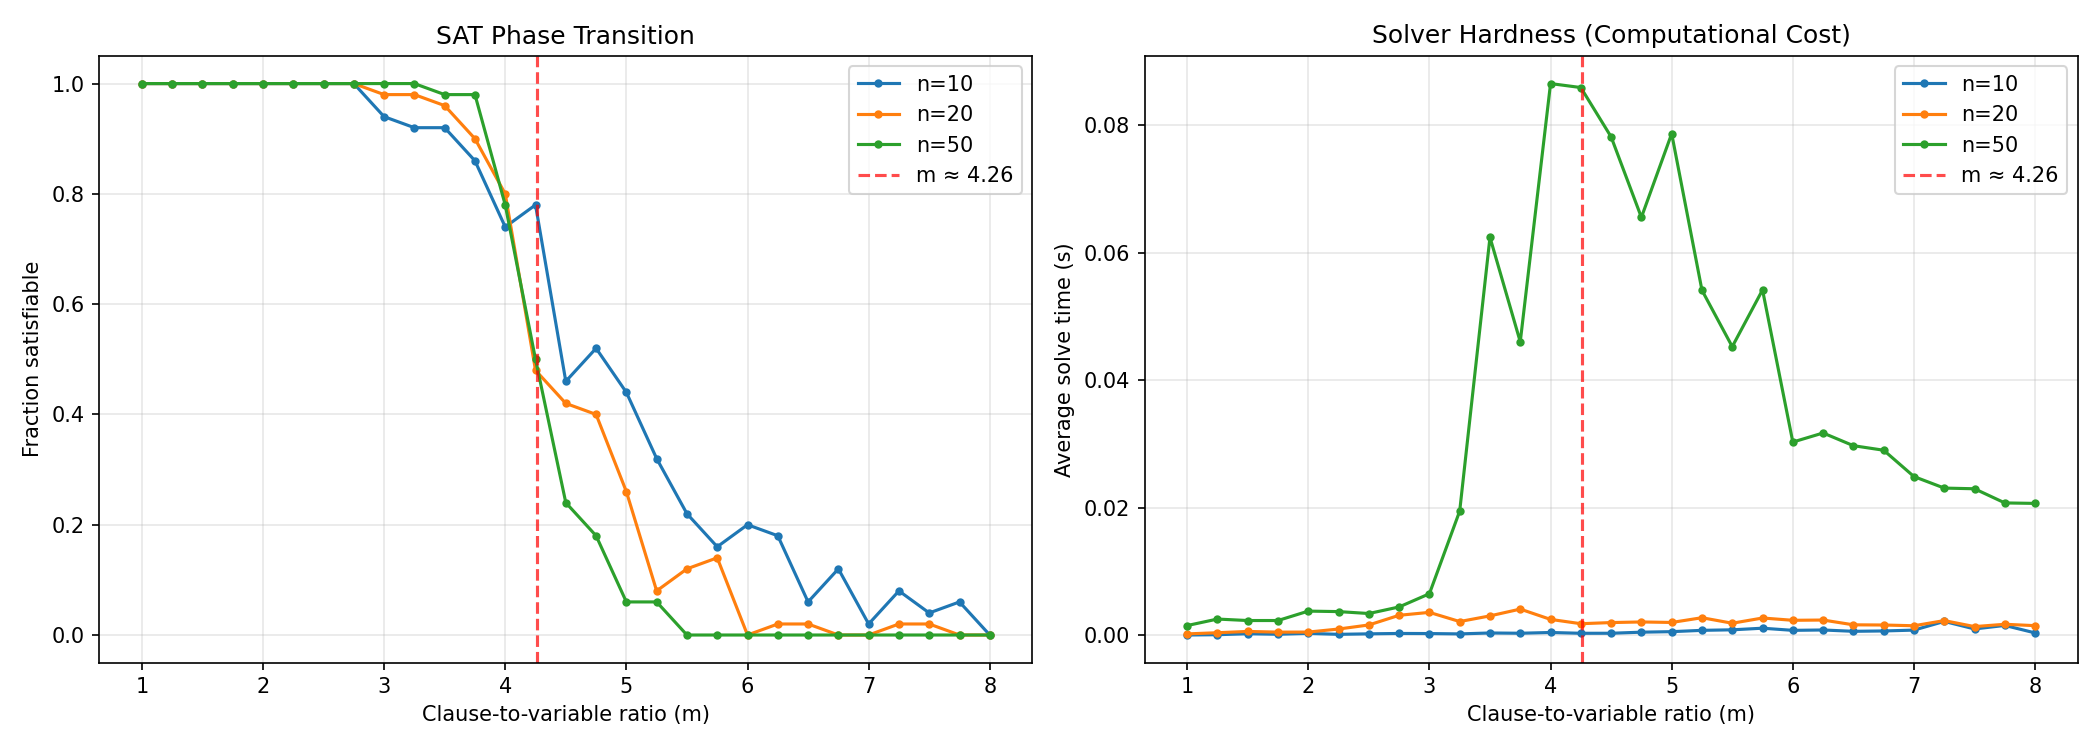
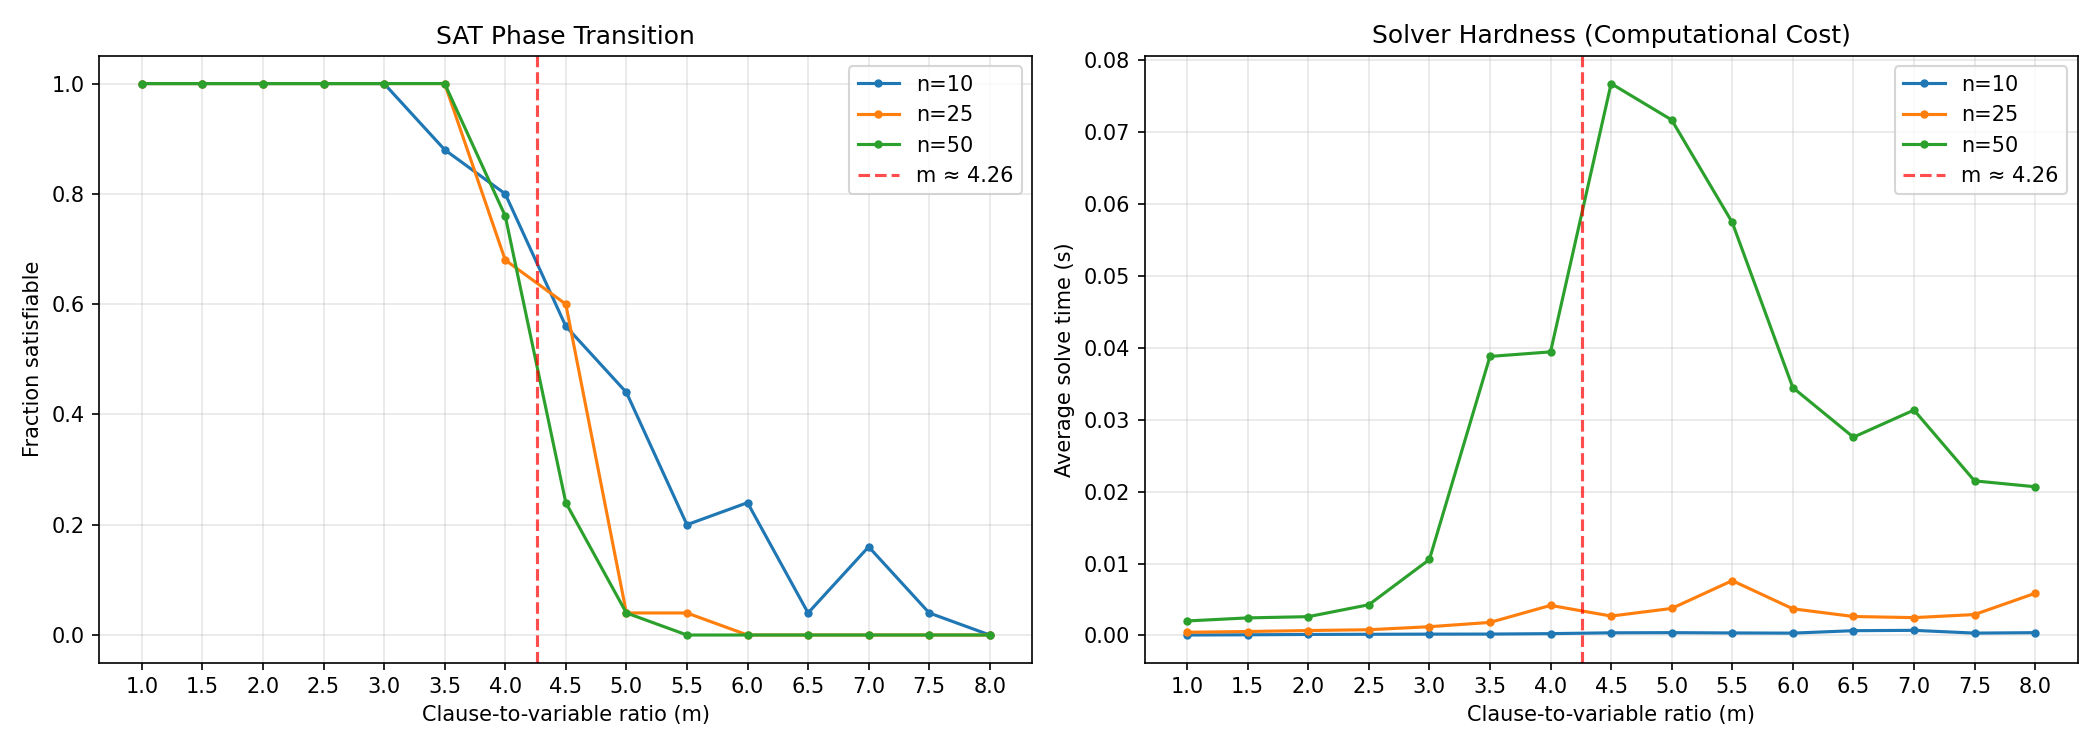
Satisfaction - adjustment - final

diff --git a/Sprint2/Satisfaction/sat_phase_transition.py b/Sprint2/Satisfaction/sat_phase_transition.py
@@ -200,12 +200,15 @@ def plot_results(results, filename="sat_phase_transition.png"):
     ax1.axvline(x=4.26, color="red", linestyle="--", alpha=0.7, label="m ≈ 4.26")
     ax2.axvline(x=4.26, color="red", linestyle="--", alpha=0.7, label="m ≈ 4.26")
 
+    tick_positions = [x * 0.5 for x in range(2, 17)]  # 1.0, 1.5, ..., 8.0
+    ax1.set_xticks(tick_positions)
     ax1.set_xlabel("Clause-to-variable ratio (m)")
     ax1.set_ylabel("Fraction satisfiable")
     ax1.set_title("SAT Phase Transition")
     ax1.legend()
     ax1.grid(True, alpha=0.3)
 
+    ax2.set_xticks(tick_positions)
     ax2.set_xlabel("Clause-to-variable ratio (m)")
     ax2.set_ylabel("Average solve time (s)")
     ax2.set_title("Solver Hardness (Computational Cost)")
@@ -262,30 +265,28 @@ if __name__ == '__main__':
     print(f"  {n_tests - mismatches}/{n_tests} random tests matched PySAT")
     print(f"\n=== Summary: {passed} passed, {failed} failed ===")
 
-    # ------------------------------------------------------------------
-    # Phase-transition experiment
-    # ------------------------------------------------------------------
-    print("\n" + "=" * 50)
-    print("  PHASE-TRANSITION EXPERIMENT")
-    print("=" * 50)
-
-    # Sweep m from 1.0 to 8.0 in steps of 0.25
-    m_range = [round(1.0 + 0.25 * i, 2) for i in range(29)]  # 1.00 .. 8.00
-
-    # Test multiple n values — larger n shows sharper transition but DPLL is exponential
-    n_values = [50, 75, 100]
-    trials = 50
-
-    results = experiment(n_values, m_range, trials)
-    plot_results(results)
+    # Sweep m from 1.0 to 8.0 in steps of 0.5
+    m_range = [round(1.0 + 0.5 * i, 2) for i in range(15)]  # 1.0, 1.5, ..., 8.0
+    trials = 25
 
     # ------------------------------------------------------------------
-    # Precise phase-transition experiment (finer steps)
+    # Phase-transition experiment: n = 10, 25, 50
     # ------------------------------------------------------------------
     print("\n" + "=" * 50)
-    print("  PRECISE PHASE-TRANSITION EXPERIMENT")
+    print("  PHASE-TRANSITION EXPERIMENT (n = 10, 25, 50)")
     print("=" * 50)
 
-    m_range_precise = [round(1.0 + 0.05 * i, 2) for i in range(141)]  # 1.00 .. 8.00
-    results_precise = experiment(n_values, m_range_precise, trials)
-    plot_results(results_precise, filename="sat_phase_transition_precise.png")
+    n_values_small = [10, 25, 50]
+    results_small = experiment(n_values_small, m_range, trials)
+    plot_results(results_small)
+
+    # ------------------------------------------------------------------
+    # Phase-transition experiment: n = 50, 75, 100
+    # ------------------------------------------------------------------
+    print("\n" + "=" * 50)
+    print("  PHASE-TRANSITION EXPERIMENT (n = 50, 75, 100)")
+    print("=" * 50)
+
+    n_values_large = [50, 75, 100]
+    results_large = experiment(n_values_large, m_range, trials)
+    plot_results(results_large, filename="sat_phase_transition_precise.png")
